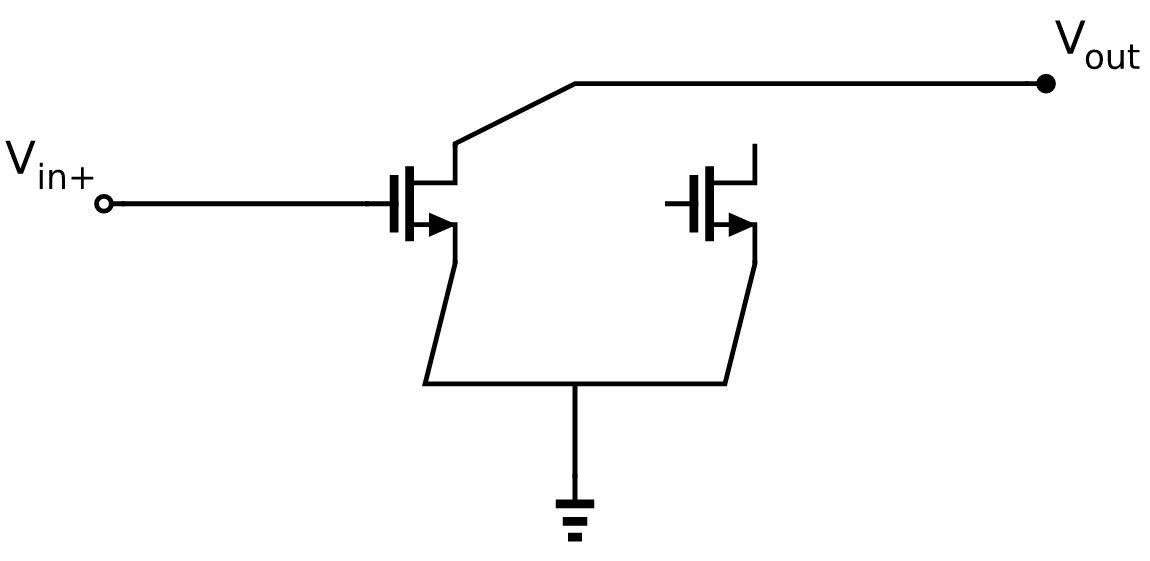
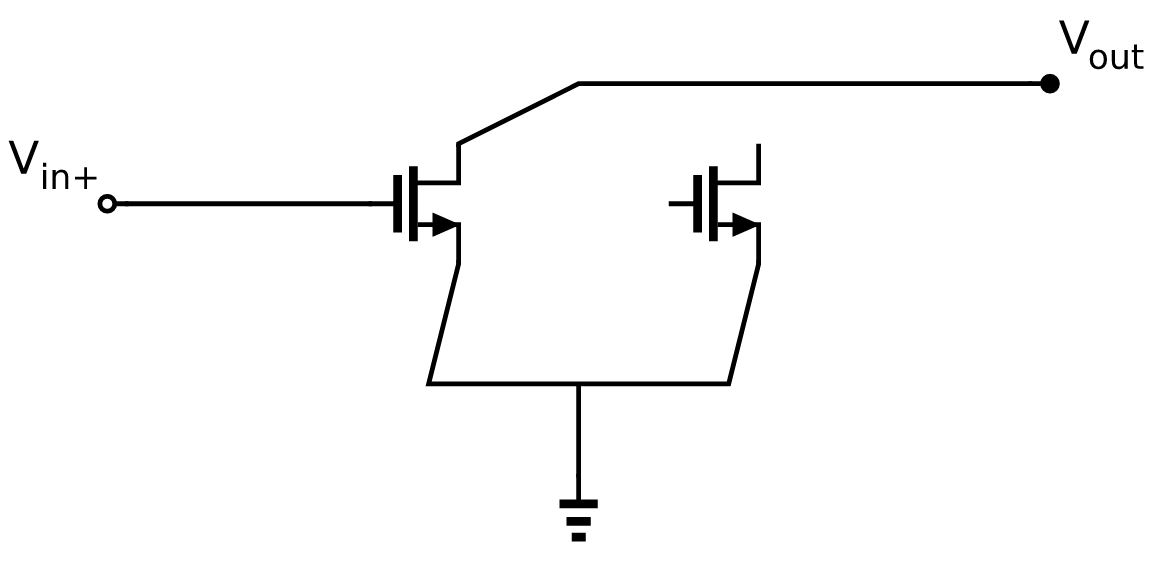
fix(render-svg): figure bounds hold every label's drawn ink, bold names included
Exports cut off labels at the drawing's edge (#1436). An output port's
"outb" lost most of its "b", and a part's M_N3 its "M". The figure bounds
took each label's `bounds`: the room it reserves, 0.6 em a character.
Textbook names are bold, and bold DejaVu glyphs are wider than that room.
"outb" draws 39.2 at the label size against 36.3 reserved.

The bounds now take each label's `inkBounds` as well: where its glyphs
reach in the weight and style they are drawn in, from the label advance
tables (#1413). A label anchored on a wire is bounded where it is drawn
too. A route marker was sized by a 7-unit character estimate centred at its
label point, wherever it was drawn; it now also spans its measured ink
where the renderer draws it, from one shared placement: a current
marker's text upright and centred at its label point, a voltage marker's
at the wire, aligned as it says, with its "+" and "−", and any other
marker as presented, at its point. SVG, PNG and PDF exports and Gallery
previews share these bounds.

Goldens: the differential-stage export and visual goldens grow by 1.1
units at the left, where a bold name reached past its room. The
instance-value-display visual golden grows 5.3 across and 0.5 down.
Nothing else in them changes.

Validation:
- render-svg cases at margin 0: bold "outb" start-aligned at the right
  edge, "MW" end-aligned at the left, and a bold Net Label on a wire at
  the right edge, whose ink rectangles must lie inside the viewBox; and
[…]

diff --git a/packages/render-svg/src/render.ts b/packages/render-svg/src/render.ts
@@ -901,6 +901,7 @@ function deriveBounds(
   routingGeometry: ResolvedDocumentRoutingGeometry,
   margin: number,
   annotations: readonly ResolvedSvgAnnotation[],
+  profile: SchematicStyleProfile,
   objectIds?: ReadonlySet<string>,
 ): DerivedRect {
   const bounds: DerivedRect[] = [];
@@ -958,25 +959,77 @@ function deriveBounds(
     });
   }
   for (const { annotation, content, presentation } of annotations) {
-    const routePlacement =
-      annotation.anchor.kind === "route"
-        ? resolveRouteMarkerPlacement(routingGeometry, annotation.anchor)
-        : null;
     if (objectIds) bounds.push(presentation.bounds);
-    if (!routePlacement) {
-      bounds.push(presentation.bounds);
+    // Only a route marker is drawn at the marker's own place; every other
+    // label, one on a wire too, is drawn where its presentation is.
+    const marker = drawnRouteMarkerPlacement(
+      annotation,
+      presentation,
+      routingGeometry,
+    );
+    if (!marker) {
+      // The room a label reserves, 0.6 em a character, and the ink it draws:
+      // a bold name's wide glyphs reach past that room, and an "outb" at the
+      // drawing's edge lost its "b" (#1436).
+      bounds.push(presentation.bounds, presentation.inkBounds);
       continue;
     }
-    const textPosition = routePlacement.labelPosition;
-    bounds.push(
-      estimatedTextBounds(
+    // A marker's upright text: a 7-unit character estimate, and the ink its
+    // glyphs measure, bold ones included, along its line (#1436).
+    const inkWidth =
+      presentation.rotation % 180 === 0
+        ? presentation.inkBounds.width
+        : presentation.inkBounds.height;
+    const upright = (at: Point, alignment: "start" | "middle" | "end") => {
+      const estimate = estimatedTextBounds(
         flattenRichText(content),
-        textPosition.x,
-        textPosition.y,
-        "middle",
+        at.x,
+        at.y,
+        alignment,
         annotation.sizeScale ?? 1,
-      ),
-    );
+      );
+      const left =
+        alignment === "start"
+          ? at.x
+          : alignment === "end"
+            ? at.x - inkWidth
+            : at.x - inkWidth / 2;
+      return [estimate, { ...estimate, x: left, width: inkWidth }];
+    };
+    if (
+      annotation.kind === "route-marker" &&
+      annotation.markerKind === "current"
+    ) {
+      // Centred at its label point.
+      bounds.push(...upright(marker.labelPosition, "middle"));
+    } else if (
+      annotation.kind === "route-marker" &&
+      annotation.markerKind === "voltage"
+    ) {
+      // At the marker's point, with its "+" and "−" beside it.
+      bounds.push(...upright(marker.position, annotation.alignment));
+      const markerProfile = objectStyleProfile(profile, annotation);
+      const { polarityOffsetX, polarityHalfGap } = markerProfile.annotations;
+      const size = markerProfile.typography.polarityFontSize;
+      for (const side of [-1, 1]) {
+        const offset = rotateOffset(
+          { x: -polarityOffsetX, y: side * polarityHalfGap },
+          marker.rotation,
+        );
+        bounds.push({
+          x: marker.position.x + offset.x - size / 2,
+          y: marker.position.y + offset.y + 4 - size,
+          width: size,
+          height: size * 1.25,
+        });
+      }
+    } else if (marker.rotation === presentation.rotation) {
+      // Drawn as presented, at the marker's point.
+      const dx = marker.position.x - presentation.position.x;
+      const dy = marker.position.y - presentation.position.y;
+      for (const rect of [presentation.bounds, presentation.inkBounds])
+        bounds.push({ ...rect, x: rect.x + dx, y: rect.y + dy });
+    } else bounds.push(...upright(marker.position, annotation.alignment));
   }
   // ADR 0010 WP-R2: drafting objects extend the formal export bounds so
   // callouts and floating symbols outside the circuit are not clipped.
@@ -1134,6 +1187,7 @@ export function buildSvgScene(
         routingGeometry,
         margin,
         resolvedAnnotations,
+        profile,
         objectIds,
       );
 
@@ -1449,23 +1503,11 @@ export function buildSvgScene(
     .map(({ annotation, content, presentation }) => {
       const annotationProfile = objectStyleProfile(profile, annotation);
       const attachment = ` data-anchor-kind="${annotation.anchor.kind}"`;
-      const resolvedAnchor = presentation.anchor;
-      const routeMarkerPlacement =
-        annotation.kind === "route-marker"
-          ? annotation.anchor.kind === "free"
-            ? {
-                position: annotation.anchor.position,
-                labelPosition: annotation.anchor.position,
-                rotation: 0 as const,
-              }
-            : annotation.anchor.kind === "object"
-              ? {
-                  position: resolvedAnchor.position,
-                  labelPosition: resolvedAnchor.position,
-                  rotation: 0 as const,
-                }
-              : resolveRouteMarkerPlacement(routingGeometry, annotation.anchor)
-          : null;
+      const routeMarkerPlacement = drawnRouteMarkerPlacement(
+        annotation,
+        presentation,
+        routingGeometry,
+      );
       const position = routeMarkerPlacement?.position ?? presentation.position;
       const rotation = routeMarkerPlacement?.rotation ?? presentation.rotation;
       const transform = `rotate(${rotation} ${position.x} ${position.y})`;
@@ -1638,6 +1680,22 @@ export function buildSvgScene(
 }
 
 // Resolve a route-marker route VisualAnchor to a render position/rotation.
+/** Where a route marker is drawn: its arrow or sign, and its text. */
+function drawnRouteMarkerPlacement(
+  annotation: Annotation,
+  presentation: AnnotationPresentation,
+  routingGeometry: ResolvedDocumentRoutingGeometry,
+): { position: Point; labelPosition: Point; rotation: Rotation } | null {
+  if (annotation.kind !== "route-marker") return null;
+  if (annotation.anchor.kind === "route")
+    return resolveRouteMarkerPlacement(routingGeometry, annotation.anchor);
+  const position =
+    annotation.anchor.kind === "free"
+      ? annotation.anchor.position
+      : presentation.anchor.position;
+  return { position, labelPosition: position, rotation: 0 };
+}
+
 function resolveRouteMarkerPlacement(
   routingGeometry: ResolvedDocumentRoutingGeometry,
   anchor: Extract<

diff --git a/packages/render-svg/src/render.test.ts b/packages/render-svg/src/render.test.ts
@@ -1,7 +1,9 @@
 import { createEmptyDocument, createRoutePath } from "@icm/model";
 import {
   deriveDocumentContactEvidence,
+  resolveAnnotationPresentation,
   resolveDocumentRoutingGeometry,
+  resolveDocumentStyleProfile,
 } from "@icm/derived";
 import { InMemorySymbolResolver } from "@icm/symbols";
 import { describe, expect, it } from "vitest";
@@ -132,6 +134,164 @@ describe("render svg", () => {
     expect(scene.viewBox).toEqual({ x: -10, y: -10, width: 100, height: 20 });
     expect(buildSvgScene(doc, resolver)).toEqual(full);
   });
+  it("keeps a bold name at either edge inside the figure, on a wire too (#1436)", () => {
+    // Textbook names are bold, and bold glyphs are wider than the 0.6 em a
+    // character a label reserves: "outb" draws 39.2 at the label size.
+    const doc = createEmptyDocument("edges", "Edges");
+    const bold = (value: string) => ({
+      runs: [
+        {
+          kind: "span" as const,
+          style: "italic" as const,
+          children: [
+            {
+              kind: "span" as const,
+              style: "bold" as const,
+              children: [{ kind: "text" as const, value }],
+            },
+          ],
+        },
+      ],
+    });
+    for (const [id, x, alignment, value] of [
+      ["right-name", 500, "start", "outb"],
+      ["left-name", 0, "end", "MW"],
+    ] as const)
+      doc.annotations.push({
+        id,
+        kind: "instance-label",
+        content: bold(value),
+        anchor: { kind: "free", position: { x, y: 0 } },
+        alignment,
+        rotation: 0,
+        locked: false,
+      });
+    // A Net Label on a wire at the right edge, starting near its end.
+    doc.nets.push({ id: "net", terminals: [] });
+    doc.junctions.push(
+      { id: "J1", netId: "net", position: { x: 500, y: 40 } },
+      { id: "J2", netId: "net", position: { x: 640, y: 40 } },
+    );
+    const route = createRoutePath({
+      id: "route",
+      netId: "net",
+      start: { kind: "junction", junctionId: "J1" },
+      end: { kind: "junction", junctionId: "J2" },
+      bends: [],
+      modes: ["manual"],
+    });
+    doc.routes.push(route);
+    doc.annotations.push({
+      id: "wire-name",
+      kind: "net-label",
+      netId: "net",
+      content: bold("outputnodeWW"),
+      anchor: {
+        kind: "route",
+        routeId: "route",
+        legId: route.legs[0]!.id,
+        t: 0.7,
+        normalOffset: 0,
+        direction: "forward",
+        orientation: "horizontal",
+        fallbackPosition: { x: 600, y: 40 },
+      },
+      alignment: "start",
+      rotation: 0,
+      locked: false,
+    });
+    const resolver = new InMemorySymbolResolver([]);
+    const scene = buildSvgScene(doc, resolver, { margin: 0 });
+    const profile = resolveDocumentStyleProfile(doc.presentation);
+    for (const annotation of doc.annotations) {
+      const ink = resolveAnnotationPresentation(
+        doc,
+        resolver,
+        annotation,
+        profile,
+      ).inkBounds;
+      expect(ink.x).toBeGreaterThanOrEqual(scene.viewBox.x);
+      expect(ink.x + ink.width).toBeLessThanOrEqual(
+        scene.viewBox.x + scene.viewBox.width,
+      );
+    }
+  });
+
+  it("keeps a route marker's bold name inside the figure, where it is drawn (#1436)", () => {
+    // Each marker's text is drawn upright: a current marker's centred at its
+    // label point, a voltage marker's at the wire, aligned as it says.
+    const cases = [
+      { markerKind: "current", anchored: "route", alignment: "middle" },
+      { markerKind: "voltage", anchored: "route", alignment: "start" },
+      { markerKind: "current", anchored: "free", alignment: "start" },
+    ] as const;
+    for (const { markerKind, anchored, alignment } of cases) {
+      const doc = createEmptyDocument("marker", "Marker");
+      doc.nets.push({ id: "net", terminals: [] });
+      doc.junctions.push(
+        { id: "J1", netId: "net", position: { x: 0, y: 0 } },
+        { id: "J2", netId: "net", position: { x: 100, y: 0 } },
+      );
+      const route = createRoutePath({
+        id: "route",
+        netId: "net",
+        start: { kind: "junction", junctionId: "J1" },
+        end: { kind: "junction", junctionId: "J2" },
+        bends: [],
+        modes: ["manual"],
+      });
+      doc.routes.push(route);
+      // On the wire, at its right end; free, at its left end.
+      const at = anchored === "route" ? 100 : 0;
+      doc.annotations.push({
+        id: "marker",
+        kind: "route-marker",
+        markerKind,
+        content: {
+          runs: [
+            {
+              kind: "span",
+              style: "bold",
+              children: [{ kind: "text", value: "VOUTWW" }],
+            },
+          ],
+        },
+        anchor:
+          anchored === "route"
+            ? {
+                kind: "route",
+                routeId: "route",
+                legId: route.legs[0]!.id,
+                t: 1,
+                normalOffset: 0,
+                direction: "forward",
+                orientation: "horizontal",
+                fallbackPosition: { x: at, y: 0 },
+              }
+            : { kind: "free", position: { x: at, y: 0 } },
+        alignment,
+        rotation: 0,
+        locked: false,
+      });
+      const resolver = new InMemorySymbolResolver([]);
+      const scene = buildSvgScene(doc, resolver, { margin: 0 });
+      const width = resolveAnnotationPresentation(
+        doc,
+        resolver,
+        doc.annotations[0]!,
+        resolveDocumentStyleProfile(doc.presentation),
+      ).inkBounds.width;
+      const [left, right] =
+        markerKind === "current"
+          ? [at - width / 2, at + width / 2]
+          : [at, at + width];
+      expect(left, markerKind).toBeGreaterThanOrEqual(scene.viewBox.x);
+      expect(right, markerKind).toBeLessThanOrEqual(
+        scene.viewBox.x + scene.viewBox.width,
+      );
+    }
+  });
+
   it("renders identically from one shared routing read model", () => {
     const doc = createEmptyDocument("shared", "Shared read model");
     doc.nets.push({ id: "net", terminals: [] });
